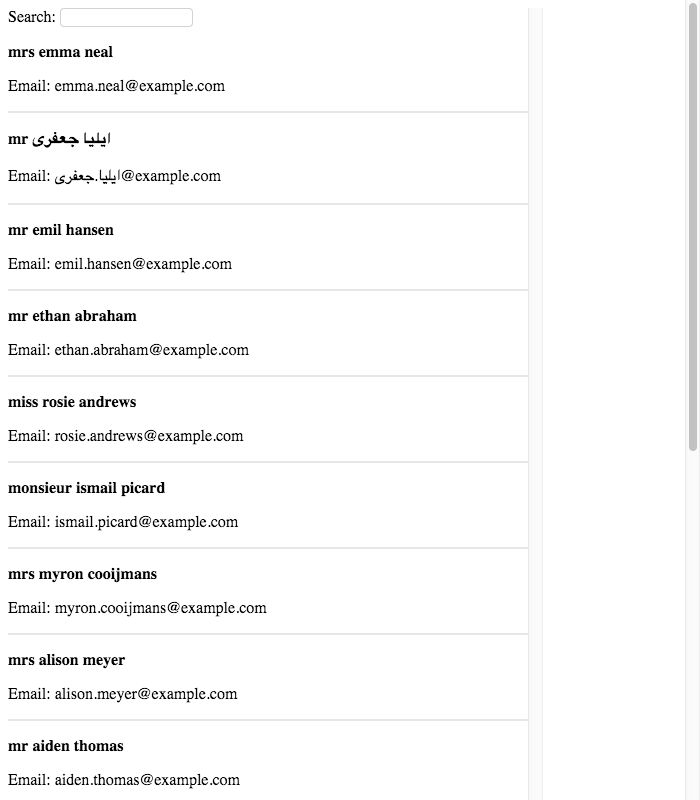
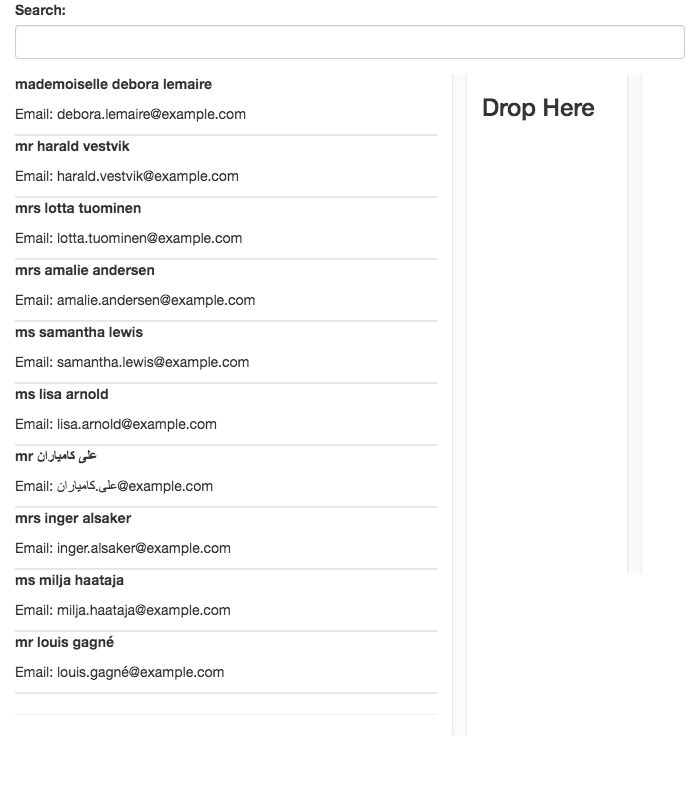
react bootstrap added

diff --git a/src/index.js b/src/index.js
@@ -1,5 +1,14 @@
 import React, { Component } from "react";
 import { render } from "react-dom";
+import {
+  Grid,
+  Row,
+  Col,
+  Form,
+  FormGroup,
+  FormControl,
+  ControlLabel
+} from "react-bootstrap";
 import config from "./config";
 import { UserComponent } from "./components/userComponent";
 
@@ -109,50 +118,56 @@ class Users extends Component {
   render() {
     const { error, isLoading, users, selectedUsers, end } = this.state;
     let mainDiv = {
-      width: "80%",
       overflowY: "scroll",
-      height: "100%",
-      float: "left"
+      height: "100%"
     };
 
     let dropContainerStyle = {
       height: "500px",
-      width: "300px",
-      marginLeft: "20px",
-      overflowY: "scroll",
-      float: "left"
+      overflowY: "scroll"
     };
     let processUser = users => {
       return users.map((user, i) => <UserComponent user={user} key={i} />);
     };
     return (
-      <div>
-        <div style={mainDiv}>
-          <label htmlFor="search">Search: </label>
-          <input
-            type="search"
-            id="search"
-            onChange={this.searchUser}
-            ref={search => {
-              this.search = search;
-            }}
-            name="search"
-          />
-          {processUser(users)}
-          <hr />
-          {error && <div style={{ color: "#900" }}>{error}</div>}
-          {end && <div style={{ color: "#900" }}>{end}</div>}
-          {isLoading && <div>Loading...</div>}
-        </div>
-        <div
-          onDrop={this.drop}
-          onDragOver={this.allowDrop}
-          style={dropContainerStyle}
-        >
-          <h3>Drop Here</h3>
-          {processUser(selectedUsers)}
-        </div>
-      </div>
+      <Grid>
+        <Row>
+          <Col md={3}>
+            <Form inline>
+              <FormGroup controlId="search">
+                <ControlLabel>Search: </ControlLabel> {" "}
+                <FormControl
+                  type="search"
+                  id="search"
+                  onChange={this.searchUser}
+                  ref={search => {
+                    this.search = search;
+                  }}
+                  name="search"
+                />
+              </FormGroup>
+            </Form>
+          </Col>
+        </Row>
+        <Row>
+          <Col md={8} xs={8} style={mainDiv}>
+            {processUser(users)}
+            <hr />
+            {error && <div style={{ color: "#900" }}>{error}</div>}
+            {end && <div style={{ color: "#900" }}>{end}</div>}
+            {isLoading && <div>Loading...</div>}
+          </Col>
+          <Col
+            md={3} xs={3}
+            onDrop={this.drop}
+            onDragOver={this.allowDrop}
+            style={dropContainerStyle}
+          >
+            <h3>Drop Here</h3>
+            {processUser(selectedUsers)}
+          </Col>
+        </Row>
+      </Grid>
     );
   }
 }

diff --git a/public/index.html b/public/index.html
@@ -6,6 +6,10 @@
 	<meta name="keywords" content="Infinite Load, Drag and Drop, Infinite Search, React Infinite load">
 	<meta name="author" content="Abdul Rahaman">
 	<meta name="viewport" content="width=device-width, initial-scale=1.0">
+	<!-- Latest compiled and minified CSS -->
+	<link rel="stylesheet" href="https://maxcdn.bootstrapcdn.com/bootstrap/3.3.7/css/bootstrap.min.css" integrity="sha384-BVYiiSIFeK1dGmJRAkycuHAHRg32OmUcww7on3RYdg4Va+PmSTsz/K68vbdEjh4u" crossorigin="anonymous">
+	<!-- Optional theme -->
+	<link rel="stylesheet" href="https://maxcdn.bootstrapcdn.com/bootstrap/3.3.7/css/bootstrap-theme.min.css" integrity="sha384-rHyoN1iRsVXV4nD0JutlnGaslCJuC7uwjduW9SVrLvRYooPp2bWYgmgJQIXwl/Sp" crossorigin="anonymous">
 <head>
 </head>
 
